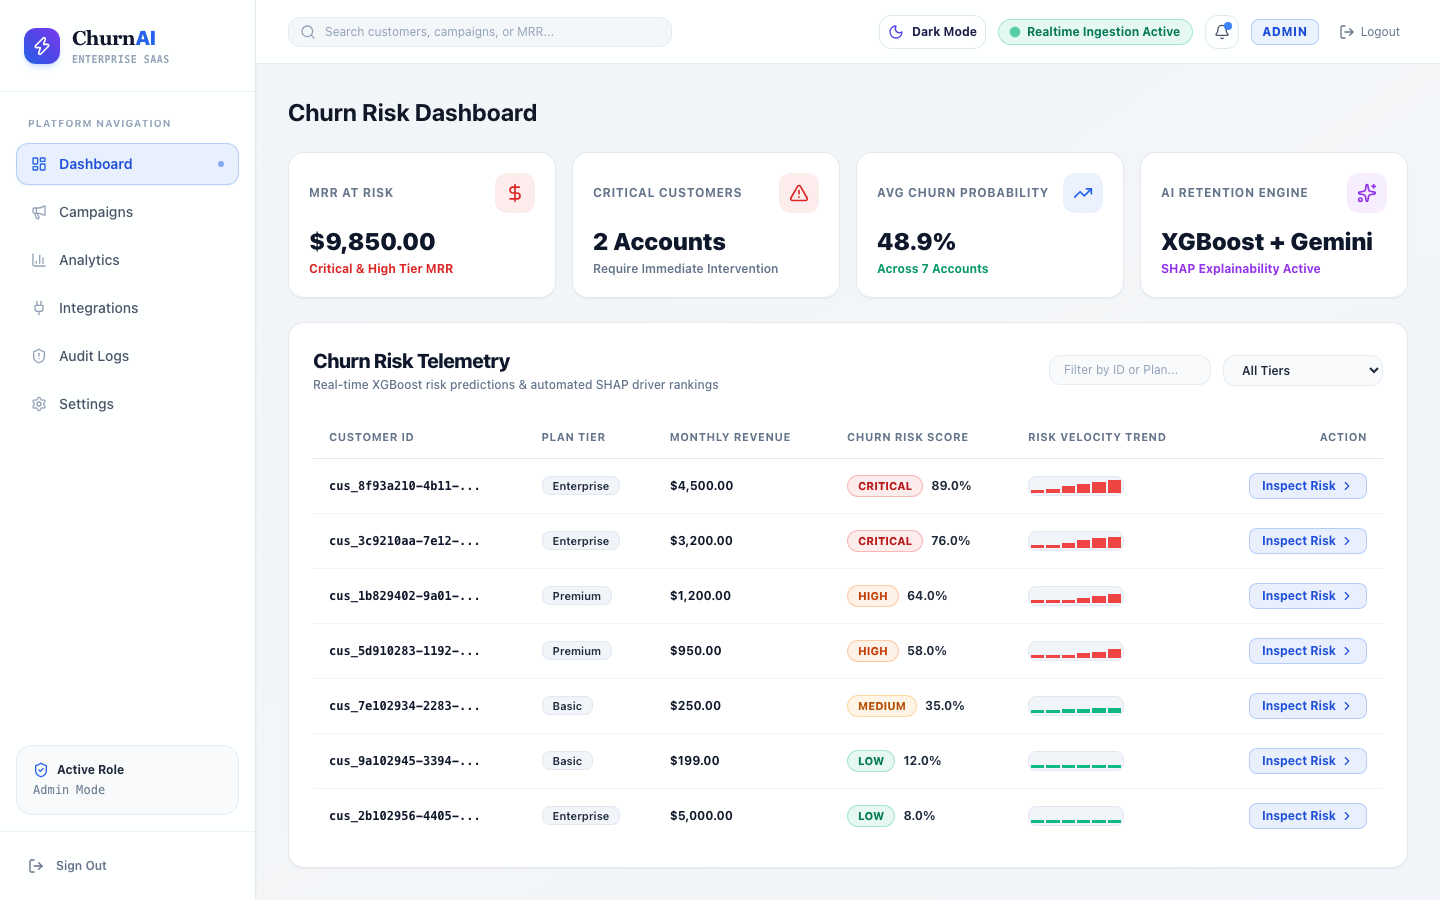
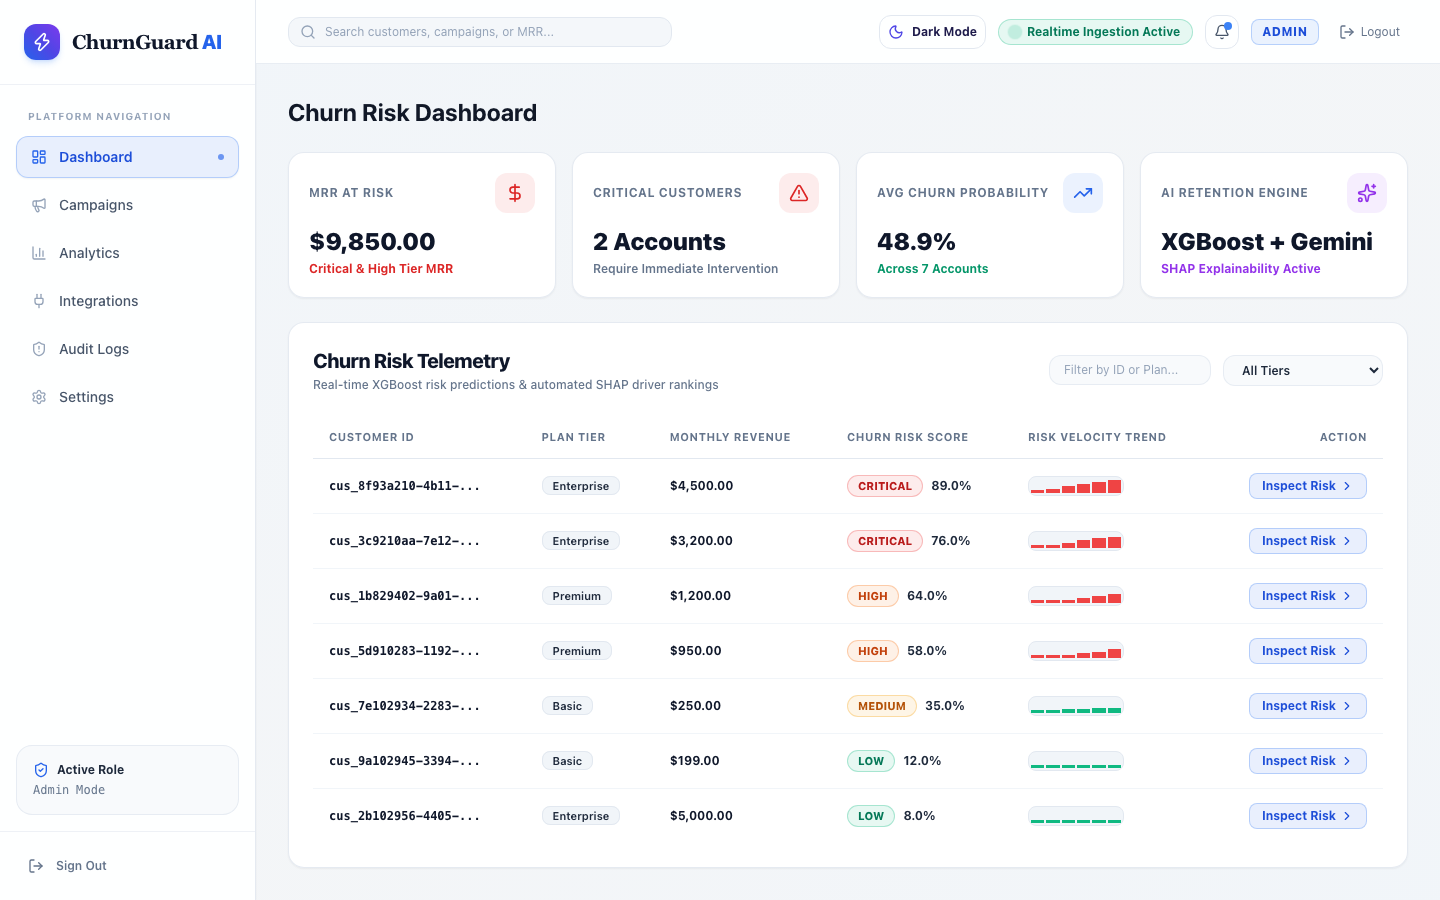
feat(branding): rename product to ChurnGuard AI and remove enterprise saas taglines

diff --git a/apps/web/components/Sidebar.tsx b/apps/web/components/Sidebar.tsx
@@ -30,14 +30,13 @@ export default function Sidebar({ userRole }: { userRole: string }) {
       {/* Brand Logo */}
       <div className="p-6 border-b border-slate-200/60 dark:border-slate-800/60">
         <Link href="/dashboard" className="flex items-center space-x-3">
-          <div className="w-9 h-9 rounded-xl bg-gradient-to-tr from-blue-600 via-indigo-600 to-violet-600 flex items-center justify-center shadow-md shadow-blue-500/20">
+          <div className="w-9 h-9 rounded-xl bg-gradient-to-tr from-blue-600 via-indigo-600 to-violet-600 flex items-center justify-center shadow-md shadow-blue-500/20 flex-shrink-0">
             <Zap className="w-5 h-5 text-white" />
           </div>
           <div>
-            <h1 className="text-xl font-black tracking-tight text-slate-900 dark:text-white font-serif">
-              Churn<span className="text-blue-600 dark:text-blue-400 font-sans">AI</span>
+            <h1 className="text-xl font-black tracking-tight text-slate-900 dark:text-white font-serif leading-none">
+              churn<span className="text-blue-600 dark:text-blue-400 font-sans">.ai</span>
             </h1>
-            <div className="text-[10px] font-bold text-slate-400 dark:text-slate-400 font-mono tracking-wider">ENTERPRISE SAAS</div>
           </div>
         </Link>
       </div>

diff --git a/apps/web/app/login/page.tsx b/apps/web/app/login/page.tsx
@@ -116,10 +116,10 @@ export default function LoginPage() {
       <div className="sm:mx-auto sm:w-full sm:max-w-md relative z-10 text-center">
         <div className="inline-flex items-center justify-center space-x-2.5 bg-blue-500/10 dark:bg-gradient-to-r dark:from-blue-600/20 dark:to-indigo-600/20 border border-blue-500/20 dark:border-blue-500/30 px-4 py-1.5 rounded-full text-blue-600 dark:text-blue-400 text-xs font-bold uppercase tracking-widest mb-4">
           <Sparkles className="w-4 h-4 text-blue-500 animate-pulse" />
-          <span>Enterprise AI Churn Intelligence</span>
+          <span>churn.ai</span>
         </div>
         <h1 className="text-4xl font-extrabold tracking-tight text-slate-900 dark:text-white font-serif">
-          Churn<span className="text-blue-600 dark:text-blue-500 font-sans">Platform</span>
+          churn<span className="text-blue-600 dark:text-blue-500 font-sans">.ai</span>
         </h1>
         <p className="mt-2 text-sm text-slate-600 dark:text-slate-400">
           Predict churn risk, generate SHAP explanations, & automate targeted retention campaigns.

diff --git a/apps/web/app/dashboard/integrations/ClientIntegrations.tsx b/apps/web/app/dashboard/integrations/ClientIntegrations.tsx
@@ -79,7 +79,7 @@ export default function ClientIntegrations({ initialIntegrations = [] }: { initi
   };
 
   const copyWebhookUrl = () => {
-    navigator.clipboard.writeText('https://api.churn-platform.com/webhooks/v1/ingest');
+    navigator.clipboard.writeText('https://api.churn.ai/webhooks/v1/ingest');
     setCopiedWebhook(true);
     setTimeout(() => setCopiedWebhook(false), 2000);
   };
@@ -209,7 +209,7 @@ export default function ClientIntegrations({ initialIntegrations = [] }: { initi
 
         <div className="flex items-center space-x-3 bg-slate-50 dark:bg-slate-950 border border-slate-200 dark:border-slate-800 p-3 rounded-xl">
           <code className="text-xs font-mono text-blue-600 dark:text-blue-400 flex-1 overflow-x-auto">
-            POST https://api.churn-platform.com/webhooks/v1/ingest
+            POST https://api.churn.ai/webhooks/v1/ingest
           </code>
           <button
             onClick={copyWebhookUrl}

diff --git a/apps/web/lib/demoData.ts b/apps/web/lib/demoData.ts
@@ -242,12 +242,12 @@ export const MOCK_INTEGRATIONS: Integration[] = [
     id: 'webhook',
     name: 'Custom HTTP Webhook Endpoint',
     category: 'Realtime API',
-    description: 'Stream custom JSON event payloads directly to ChurnAI\'s real-time ingestion pipeline.',
+    description: 'Stream custom JSON event payloads directly to churn.ai\'s real-time ingestion pipeline.',
     icon: 'webhook',
     status: 'connected',
     last_sync: '2026-08-03T11:52:00Z',
     events_count_24h: 12800,
-    config: { endpoint_url: 'https://api.churn-platform.com/webhooks/v1/ingest', signing_secret: 'wh_sign_••••••••9901' }
+    config: { endpoint_url: 'https://api.churn.ai/webhooks/v1/ingest', signing_secret: 'wh_sign_••••••••9901' }
   }
 ];
 

diff --git a/apps/web/app/layout.tsx b/apps/web/app/layout.tsx
@@ -2,8 +2,8 @@ import "./globals.css";
 import { ThemeProvider } from "@/components/ThemeProvider";
 
 export const metadata = {
-  title: "ChurnAI | Enterprise Retention Intelligence Platform",
-  description: "Predict churn risk, generate SHAP explanations, & automate targeted retention campaigns.",
+  title: "churn.ai | Predictive Retention Platform",
+  description: "Predict churn risk, generate SHAP explanations, & automate targeted retention campaigns with churn.ai.",
 };
 
 export default function RootLayout({
